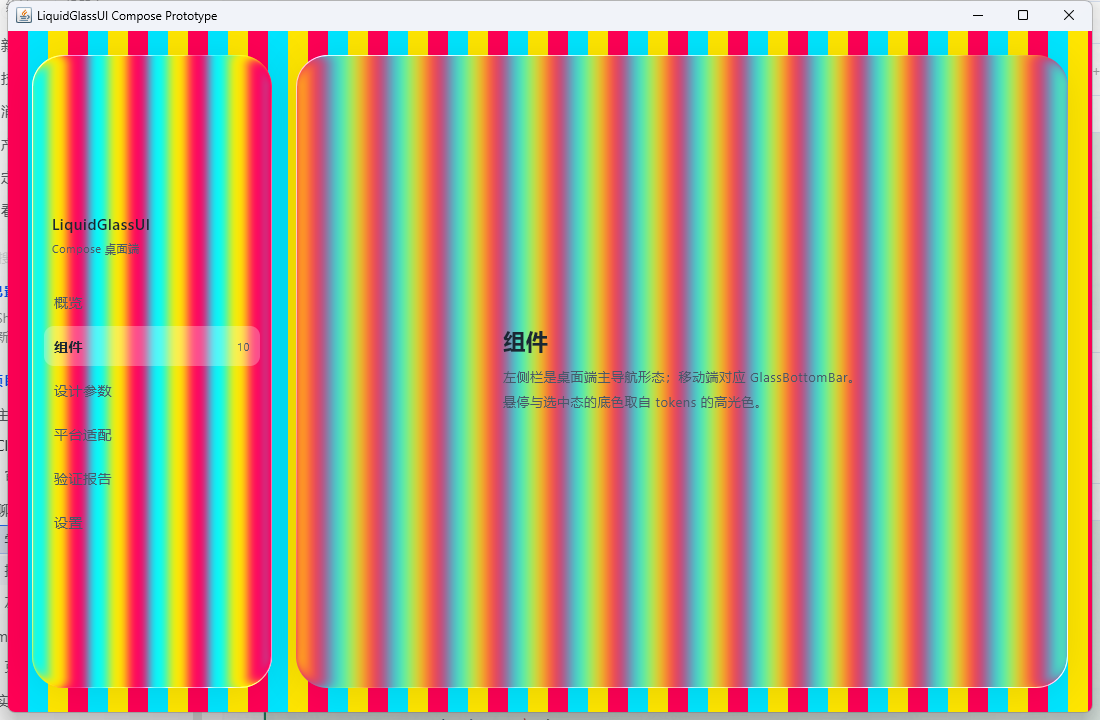
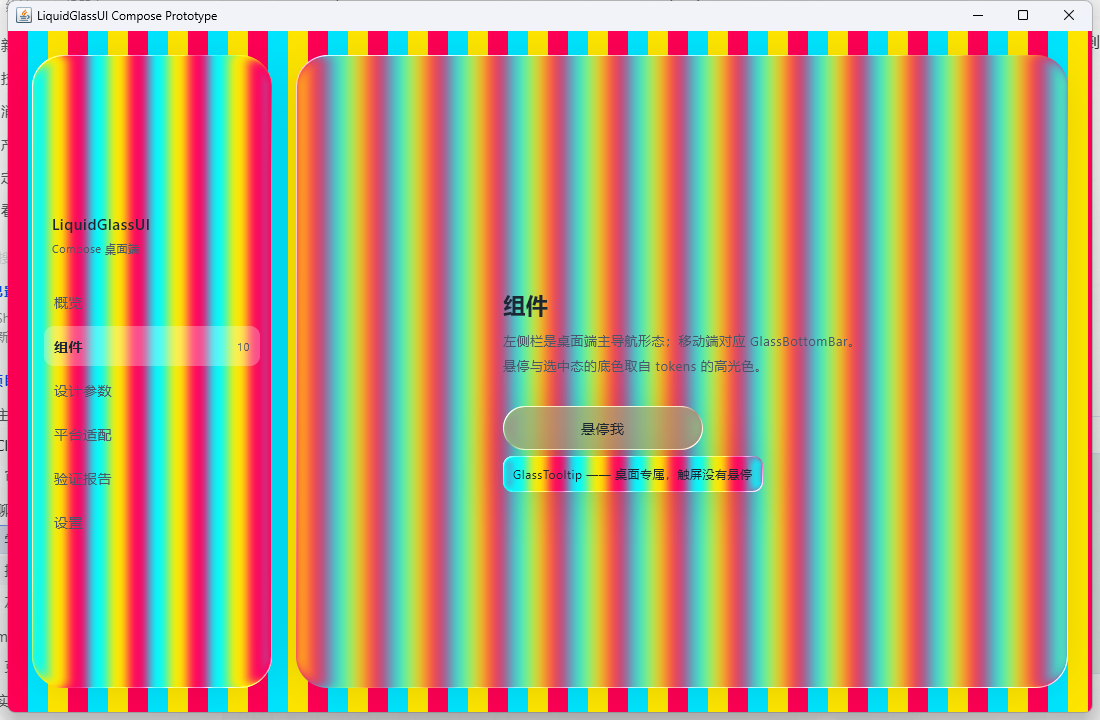
feat(compose): GlassTooltip 桌面专属悬停提示
组件（GlassTooltip.kt）
- 桌面专属交互：依赖指针悬停，触屏无 hover 概念，移动端不提供对应实现
- 支持 Below/Above 两种方向（锚点靠边时可选，避免被裁）
- 显示延迟默认取 tokens 的 SLOW（400ms）—— 属交互时序，走 tokens 而非硬编码

为什么不用 Popup
- Compose Desktop 的 Popup 是**独立窗口**，采样不到父级 backdrop，玻璃会退化
- 改用同层 overlay，依靠 Box 默认不裁剪溢出显示
- 代价：父级若设 clip 会裁掉提示（已写入文档与使用方须知）

实现细节
- 延迟为 0 时直接从 hovered 派生可见性，不经过协程 ——
  既符合'无延迟即同步'语义，也使其可在测试中确定性断言

测试（GlassTooltipTest，3 用例全过）
- 悬停前不渲染、悬停显示、移开消失
- 关键：对提示框用 assertExists 而非 assertIsDisplayed ——
  提示被 offset 到父级布局边界外，后者会误报失败

调试过程（记录以备后人）
- 先用 assertIsDisplayed 失败，误判为 hover 不生效
- 写 HoverDiagnosticTest 证实 performMouseInput + hoverable 在本环境可用
- 最终读 JUnit XML 拿到真实报错：'is not displayed'（而非 'not exist'），
  才定位到是断言语义问题而非实现问题
- 教训：失败时先读实际报错，不要连续猜测修改

工具：删除一次性诊断测试（诊断目的已达成）

Changed region(s): [[0.4327, 0.3972, 0.7727, 0.7028], [0.9891, 0.6111, 1.0, 0.7333], [0.9891, 0.0306, 1.0, 0.0611]]

diff --git a/packages/compose/src/main/kotlin/com/weizhang09/liquidglass/GlassTooltip.kt b/packages/compose/src/main/kotlin/com/weizhang09/liquidglass/GlassTooltip.kt
@@ -1,0 +1,134 @@
+package com.weizhang09.liquidglass
+
+import androidx.compose.foundation.hoverable
+import androidx.compose.foundation.interaction.MutableInteractionSource
+import androidx.compose.foundation.interaction.collectIsHoveredAsState
+import androidx.compose.foundation.layout.Box
+import androidx.compose.foundation.layout.offset
+import androidx.compose.foundation.layout.padding
+import androidx.compose.foundation.shape.RoundedCornerShape
+import androidx.compose.material3.Text
+import androidx.compose.runtime.Composable
+import androidx.compose.runtime.LaunchedEffect
+import androidx.compose.runtime.getValue
+import androidx.compose.runtime.mutableIntStateOf
+import androidx.compose.runtime.mutableStateOf
+import androidx.compose.runtime.remember
+import androidx.compose.runtime.setValue
+import androidx.compose.ui.Modifier
+import androidx.compose.ui.graphics.Color
+import androidx.compose.ui.layout.onSizeChanged
+import androidx.compose.ui.platform.LocalDensity
+import androidx.compose.ui.unit.IntOffset
+import androidx.compose.ui.unit.dp
+import androidx.compose.ui.unit.sp
+import com.kyant.backdrop.Backdrop
+import com.weizhang09.liquidglass.tokens.GlassMotionTokens
+import com.weizhang09.liquidglass.tokens.GlassRadiusTokens
+import kotlinx.coroutines.delay
+
+/** 提示框相对锚点的位置。 */
+enum class TooltipPlacement {
+    /** 锚点下方（默认）。锚点靠近窗口顶部时用这个。 */
+    Below,
+
+    /** 锚点上方。锚点靠近窗口底部时用这个，避免提示被裁掉。 */
+    Above,
+}
+
+/**
+ * 液态玻璃提示框 —— 桌面端专属交互。
+ *
+ * 平台适配说明：tooltip 依赖指针悬停，**触屏没有 hover 概念**，
+ * 因此这是桌面端专有组件，移动端不提供对应实现
+ * （移动端的等价物是长按弹出，语义不同，留待需要时单独设计）。
+ *
+ * ## 为什么不用 Popup
+ * Compose Desktop 的 `Popup` 会创建**独立窗口**，它采样不到父级的 backdrop，
+ * 玻璃会退化成普通半透明块。因此本组件用同层 overlay 实现：
+ * 提示框绘制在锚点所在的 Box 内，依靠 Compose 默认不裁剪的特性溢出显示。
+ *
+ * 代价与约束：**父级若设置了 `clip`，提示会被裁掉**。
+ * 使用方需保证锚点所在容器有足够空间，或选择合适的方向。
+ *
+ * 用法：
+ * ```
+ * GlassTooltip(text = "打开设置", backdrop = backdrop) {
+ *     GlassButton(...)
+ * }
+ * ```
+ *
+ * @param showDelayMillis 悬停多久后显示。默认取 tokens 的 slow（400ms）——
+ *                       这是交互时序，属于设计参数，因此走 tokens 而非硬编码
+ */
+@Composable
+fun GlassTooltip(
+    text: String,
+    backdrop: Backdrop,
+    modifier: Modifier = Modifier,
+    placement: TooltipPlacement = TooltipPlacement.Below,
+    showDelayMillis: Int = GlassMotionTokens.SLOW,
+    content: @Composable () -> Unit,
+) {
+    val interaction = remember { MutableInteractionSource() }
+    val hovered by interaction.collectIsHoveredAsState()
+    var delayedVisible by remember { mutableStateOf(false) }
+    var anchorHeight by remember { mutableIntStateOf(0) }
+    var tooltipHeight by remember { mutableIntStateOf(0) }
+    val density = LocalDensity.current
+
+    // 悬停后延迟显示，移开立即隐藏。
+    // 立即显示会在鼠标划过时闪出一串提示，延迟是必要的 UX 约定。
+    LaunchedEffect(hovered, showDelayMillis) {
+        if (hovered && showDelayMillis > 0) {
+            delay(showDelayMillis.toLong())
+            delayedVisible = true
+        } else {
+            delayedVisible = false
+        }
+    }
+
+    // 延迟为 0 时直接从 hovered 派生，**不经过协程**。
+    // 这样"无延迟"是真正的同步语义（也使其可在测试中确定性地断言）；
+    // 若走 LaunchedEffect，即使跳过 delay，状态更新仍需等待协程调度。
+    val visible = if (showDelayMillis <= 0) hovered else delayedVisible
+
+    Box(modifier) {
+        Box(
+            Modifier
+                .hoverable(interaction)
+                .onSizeChanged { anchorHeight = it.height },
+        ) {
+            content()
+        }
+
+        if (visible) {
+            val gapPx = with(density) { TOOLTIP_GAP.toPx() }.toInt()
+            val offsetY = when (placement) {
+                TooltipPlacement.Below -> anchorHeight + gapPx
+                TooltipPlacement.Above -> -(tooltipHeight + gapPx)
+            }
+            Box(
+                Modifier
+                    .offset { IntOffset(0, offsetY) }
+                    .onSizeChanged { tooltipHeight = it.height },
+            ) {
+                GlassSurface(
+                    backdrop = backdrop,
+                    shape = RoundedCornerShape(GlassRadiusTokens.sm),
+                    level = GlassLevel.Regular,
+                ) {
+                    Text(
+                        text = text,
+                        fontSize = 12.sp,
+                        color = Color(0xFF1B2733),
+                        modifier = Modifier.padding(horizontal = 10.dp, vertical = 6.dp),
+                    )
+                }
+            }
+        }
+    }
+}
+
+/** 提示框与锚点的间距。属于设计参数，集中在此便于后续迁入 tokens。 */
+private val TOOLTIP_GAP = 6.dp

diff --git a/packages/compose/src/test/kotlin/com/weizhang09/liquidglass/GlassTooltipTest.kt b/packages/compose/src/test/kotlin/com/weizhang09/liquidglass/GlassTooltipTest.kt
@@ -1,0 +1,96 @@
+package com.weizhang09.liquidglass
+
+import androidx.compose.material3.Text
+import androidx.compose.ui.test.ExperimentalTestApi
+import androidx.compose.ui.test.onAllNodesWithText
+import androidx.compose.ui.test.onNodeWithText
+import androidx.compose.ui.test.performMouseInput
+import androidx.compose.ui.test.v2.runComposeUiTest
+import kotlin.test.Test
+
+/**
+ * GlassTooltip 的交互测试。
+ *
+ * 使用共享的 NoopBackdrop（见 NoopBackdrop.kt）：backdrop 的 GraphicsLayer
+ * 在无头测试进程中原生崩溃，而提示框的显示/隐藏时序与玻璃渲染无关。
+ *
+ * 三个写法要点（都是实测踩出来的）：
+ *
+ * 1. 提示未显示时节点**根本不存在**（条件渲染），用 assertDoesNotExist；
+ *    它是 SemanticsNodeInteraction 的成员方法，无需 import。
+ *
+ * 2. 显示逻辑在 `LaunchedEffect` 里，而 v2 的 StandardTestDispatcher
+ *    会把协程排队而非立即执行，`waitForIdle()` **不推进**它。
+ *    因此必须用 `waitUntil { ... }` 轮询等待状态收敛，
+ *    这是 Compose 测试处理异步状态的标准做法。
+ *
+ * 3. 测试传 `showDelayMillis = 0`，避免依赖真实时间。
+ *
+ * 4. 提示框用 `offset` 绘制在锚点布局边界之外（Box 默认不裁剪，屏幕上可见）。
+ *    Compose 的 `assertIsDisplayed` 要求节点落在父级边界内，会对此误报失败，
+ *    所以对提示框只能用 `assertExists`。
+ *
+ * 这也是一条真实限制：**父级若设置 `clip`，提示会被裁掉**，
+ * 且辅助功能/语义工具不会把它视为"已显示"。使用方需保证容器有足够空间。
+ */
+class GlassTooltipTest {
+
+    @OptIn(ExperimentalTestApi::class)
+    @Test
+    fun tooltipNotRenderedUntilHover() = runComposeUiTest {
+        setContent {
+            GlassTooltip(text = "打开设置", backdrop = NoopBackdrop, showDelayMillis = 0) {
+                Text("设置")
+            }
+        }
+
+        onNodeWithText("打开设置").assertDoesNotExist()
+        onNodeWithText("设置").assertExists()
+    }
+
+    @OptIn(ExperimentalTestApi::class)
+    @Test
+    fun tooltipAppearsOnHover() = runComposeUiTest {
+        setContent {
+            GlassTooltip(text = "打开设置", backdrop = NoopBackdrop, showDelayMillis = 0) {
+                Text("设置")
+            }
+        }
+
+        onNodeWithText("设置").performMouseInput { enter(center) }
+
+        waitUntil(timeoutMillis = 5_000) {
+            onAllNodesWithText("打开设置").fetchSemanticsNodes().isNotEmpty()
+        }
+        // 用 assertExists 而非 assertIsDisplayed：提示框被 offset 到锚点布局边界之外
+        // （Box 默认不裁剪，所以屏幕上可见），但 Compose 的 displayed 语义
+        // 要求节点落在父级边界内，因此 assertIsDisplayed 会误报失败。
+        onNodeWithText("打开设置").assertExists()
+    }
+
+    @OptIn(ExperimentalTestApi::class)
+    @Test
+    fun tooltipDisappearsAfterPointerLeaves() = runComposeUiTest {
+        setContent {
+            GlassTooltip(text = "打开设置", backdrop = NoopBackdrop, showDelayMillis = 0) {
+                Text("设置")
+            }
+        }
+
+        val anchor = onNodeWithText("设置")
+        anchor.performMouseInput { enter(center) }
+        waitUntil(timeoutMillis = 5_000) {
+            onAllNodesWithText("打开设置").fetchSemanticsNodes().isNotEmpty()
+        }
+        // 用 assertExists 而非 assertIsDisplayed：提示框被 offset 到锚点布局边界之外
+        // （Box 默认不裁剪，所以屏幕上可见），但 Compose 的 displayed 语义
+        // 要求节点落在父级边界内，因此 assertIsDisplayed 会误报失败。
+        onNodeWithText("打开设置").assertExists()
+
+        anchor.performMouseInput { exit() }
+        waitUntil(timeoutMillis = 5_000) {
+            onAllNodesWithText("打开设置").fetchSemanticsNodes().isEmpty()
+        }
+        onNodeWithText("打开设置").assertDoesNotExist()
+    }
+}

diff --git a/packages/compose/src/main/kotlin/com/weizhang09/liquidglass/demo/Main.kt b/packages/compose/src/main/kotlin/com/weizhang09/liquidglass/demo/Main.kt
@@ -7,7 +7,10 @@ import androidx.compose.foundation.layout.Box
 import androidx.compose.foundation.layout.Column
 import androidx.compose.foundation.layout.Row
 import androidx.compose.foundation.layout.fillMaxSize
+import androidx.compose.foundation.layout.height
 import androidx.compose.foundation.layout.padding
+import androidx.compose.foundation.layout.width
+import androidx.compose.foundation.shape.CircleShape
 import androidx.compose.foundation.shape.RoundedCornerShape
 import androidx.compose.material3.MaterialTheme
 import androidx.compose.material3.Text
@@ -33,6 +36,7 @@ import com.weizhang09.liquidglass.GlassLevel
 import com.weizhang09.liquidglass.GlassSidebar
 import com.weizhang09.liquidglass.GlassSidebarItem
 import com.weizhang09.liquidglass.GlassSurface
+import com.weizhang09.liquidglass.GlassTooltip
 import com.weizhang09.liquidglass.tokens.GlassRadiusTokens
 
 /**
@@ -134,6 +138,23 @@ private fun DesktopSidebarDemo() {
                         fontSize = 13.sp,
                         color = Color(0xFF48586A),
                     )
+
+                    // 桌面专属交互：指针悬停显示玻璃提示（触屏无 hover 概念）
+                    GlassTooltip(
+                        text = "GlassTooltip —— 桌面专属，触屏没有悬停",
+                        backdrop = backdrop,
+                        modifier = Modifier.padding(top = 18.dp),
+                    ) {
+                        GlassSurface(
+                            backdrop = backdrop,
+                            modifier = Modifier.width(200.dp).height(44.dp),
+                            shape = CircleShape,
+                            level = GlassLevel.Focused,
+                            refraction = !noLens,
+                        ) {
+                            Text("悬停我", fontSize = 14.sp, color = Color(0xFF1B2733))
+                        }
+                    }
                 }
             }
         }

diff --git a/packages/compose/src/test/kotlin/com/weizhang09/liquidglass/GlassSidebarTest.kt b/packages/compose/src/test/kotlin/com/weizhang09/liquidglass/GlassSidebarTest.kt
@@ -4,40 +4,24 @@ import androidx.compose.foundation.layout.Box
 import androidx.compose.foundation.layout.fillMaxSize
 import androidx.compose.material3.Text
 import androidx.compose.ui.Modifier
-import androidx.compose.ui.graphics.GraphicsLayerScope
-import androidx.compose.ui.graphics.drawscope.DrawScope
-import androidx.compose.ui.layout.LayoutCoordinates
 import androidx.compose.ui.test.ExperimentalTestApi
 import androidx.compose.ui.test.assertIsDisplayed
 import androidx.compose.ui.test.onNodeWithText
 import androidx.compose.ui.test.performClick
 import androidx.compose.ui.test.v2.runComposeUiTest
-import androidx.compose.ui.unit.Density
-import com.kyant.backdrop.Backdrop
 import kotlin.test.Test
 import kotlin.test.assertEquals
 
 /**
  * GlassSidebar 的交互测试。
  *
- * 为什么用假 Backdrop 而不是 rememberLayerBackdrop()：
+ * 使用共享的 NoopBackdrop（见 NoopBackdrop.kt）而不是 rememberLayerBackdrop()：
  * backdrop 的 GraphicsLayer 会创建 Skia GPU surface，在无头测试进程中
  * 原生崩溃（实测退出码 0xC0000005 / 0xC0000409）。
- * 而组件的点击/选中逻辑与玻璃渲染无关，用空实现的 Backdrop 即可隔离验证。
+ * 而组件的点击/选中逻辑与玻璃渲染无关，用空实现即可隔离验证。
  *
  * 玻璃渲染本身由截图验证（tools/capture-sidebar.py + verify-compose.py）。
  */
-private object NoopBackdrop : Backdrop {
-    override val isCoordinatesDependent: Boolean = false
-    override fun DrawScope.drawBackdrop(
-        density: Density,
-        coordinates: LayoutCoordinates?,
-        layerBlock: (GraphicsLayerScope.() -> Unit)?,
-    ) {
-        // 测试用：不绘制任何内容
-    }
-}
-
 class GlassSidebarTest {
 
     private val items = listOf(

diff --git a/packages/compose/src/test/kotlin/com/weizhang09/liquidglass/NoopBackdrop.kt b/packages/compose/src/test/kotlin/com/weizhang09/liquidglass/NoopBackdrop.kt
@@ -1,0 +1,28 @@
+package com.weizhang09.liquidglass
+
+import androidx.compose.ui.graphics.GraphicsLayerScope
+import androidx.compose.ui.graphics.drawscope.DrawScope
+import androidx.compose.ui.layout.LayoutCoordinates
+import androidx.compose.ui.unit.Density
+import com.kyant.backdrop.Backdrop
+
+/**
+ * 测试用的空实现 Backdrop。
+ *
+ * 为什么不直接用 `rememberLayerBackdrop()`：
+ * backdrop 的 GraphicsLayer 会创建 Skia GPU surface，在无头测试进程中
+ * **原生崩溃**（实测退出码 0xC0000005 / 0xC0000409），
+ * `skiko.renderApi=SOFTWARE` 也无效。
+ *
+ * 而组件的交互逻辑（点击、悬停、显示时序）与玻璃渲染无关，
+ * 因此用空实现隔离验证；玻璃渲染本身由截图验证。
+ */
+object NoopBackdrop : Backdrop {
+    override val isCoordinatesDependent: Boolean = false
+
+    override fun DrawScope.drawBackdrop(
+        density: Density,
+        coordinates: LayoutCoordinates?,
+        layerBlock: (GraphicsLayerScope.() -> Unit)?,
+    ) = Unit
+}

diff --git a/HANDOVER.md b/HANDOVER.md
@@ -105,7 +105,16 @@ LiquidGlassUI/
 - [x] 玻璃原型可运行并通过 A/B 像素验证
 - [x] **与 tokens 打通**（渲染层闭环已验证）
 - [x] `GlassSidebar`（桌面主导航，含悬停/选中态）
-- [ ] `GlassMenu` / `GlassTooltip`
+- [x] `GlassTooltip`（桌面专属，悬停触发）
+- [ ] `GlassMenu`
+
+**测试写法的三个坑**（都是实测踩出来的）：
+1. `assertDoesNotExist` 是 `SemanticsNodeInteraction` 的**成员方法**，不要 import。
+2. v2 测试 API 的 `StandardTestDispatcher` 会**排队协程而非立即执行**，
+   `waitForIdle()` 不推进它；用 `waitUntil { onAllNodesWithText(..).fetchSemanticsNodes()... }` 轮询。
+3. `GlassTooltip` 用 `offset` 绘制在锚点布局边界之外，`assertIsDisplayed` 会
+   **误报失败**（它要求节点在父级边界内）——对提示框只能用 `assertExists`。
+   这也是真实限制：**父级设 `clip` 会裁掉提示**。
 
 **组件测试的重要约束**：`backdrop` 的 `GraphicsLayer` 会创建 Skia GPU surface，
 在无头测试进程中**原生崩溃**（实测退出码 `0xC0000005` / `0xC0000409`），

diff --git a/README.md b/README.md
@@ -68,7 +68,8 @@ import { isLiquidGlassSupported } from '@liquidglass/rn'
 | Compose 桌面可构建 | Gradle + JDK 21 编译 | ✅ BUILD SUCCESSFUL |
 | Compose 桌面折射生效 | `tools/verify-compose.py`，`LG_NO_LENS=1` 对照 | ✅ 边缘带 mean 8–21（三次独立运行），集中度 16–42× |
 | Compose 中间不变形 | 同上，按到边界距离分桶 | ✅ 内部本底稳定 0.3–0.5；衰减单调 |
-| `GlassSidebar` 交互 | `./gradlew test`（Compose UI 测试） | ✅ 5 个用例全过：点击回调、受控选中、徽标、页眉页脚 |
+| `GlassSidebar` 交互 | `./gradlew test`（Compose UI 测试） | ✅ 4 个用例全过：点击回调、受控选中、徽标、页眉页脚 |
+| `GlassTooltip` 交互 | 同上 | ✅ 3 个用例全过：悬停前不渲染、悬停显示、移开消失 |
 
 截图见 `docs/screenshots/`。
 
